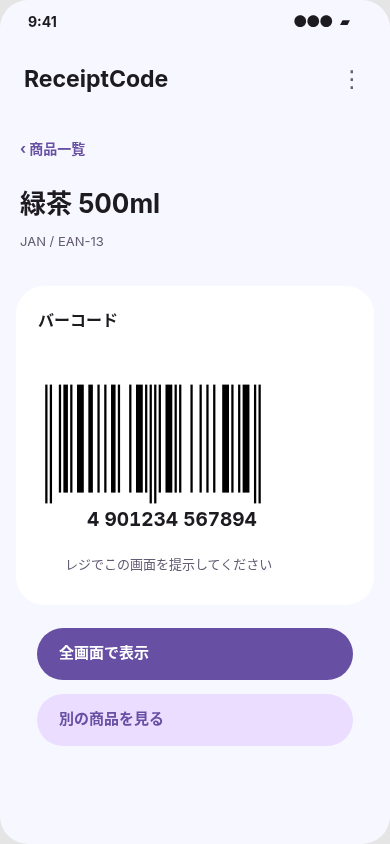
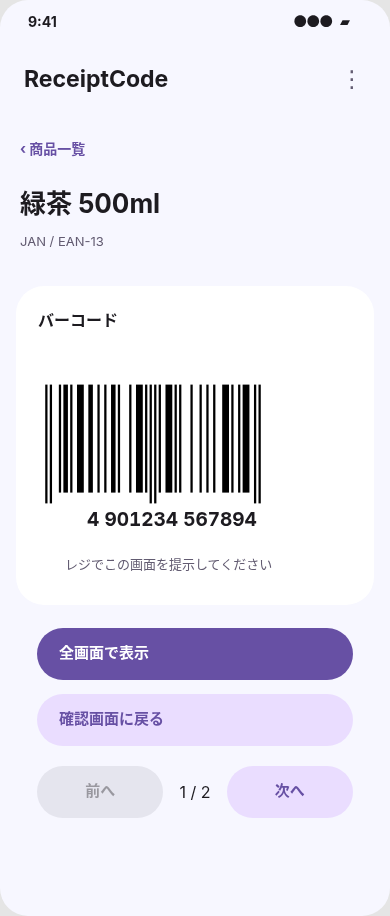
Restore review-to-sequential barcode scanning flow

diff --git a/tests/components/App.test.tsx b/tests/components/App.test.tsx
@@ -43,7 +43,6 @@ describe('App manual flow', () => {
     const checkbox = within(card).getByRole('checkbox', {
       name: '商品名とJANを確認しました',
     });
-    await user.click(screen.getByLabelText('その他の操作'));
     const bulkBarcodeButton = screen.getByRole('button', {
       name: /確認済みのバーコードを表示/,
     });
@@ -65,7 +64,7 @@ describe('App manual flow', () => {
     expect(screen.getByText('テスト商品')).toBeInTheDocument();
     expect(screen.getByText('1 / 1')).toBeInTheDocument();
 
-    await user.click(screen.getByRole('button', { name: '別の商品を見る' }));
+    await user.click(screen.getByRole('button', { name: '確認画面に戻る' }));
 
     const cardAfterReturn = screen.getByRole('listitem', {
       name: /テスト商品 4901234567894/,
@@ -82,7 +81,6 @@ describe('App manual flow', () => {
     });
     await user.clear(janAfterReturn);
     await user.type(janAfterReturn, '4512345678906');
-    await user.click(screen.getByLabelText('その他の操作'));
 
     expect(checkboxAfterReturn).not.toBeChecked();
     expect(
@@ -125,12 +123,12 @@ describe('App manual flow', () => {
       await user.type(screen.getByLabelText('商品名'), '未登録の商品');
       await user.click(screen.getByRole('button', { name: exit }));
       expect(screen.getAllByRole('listitem')).toHaveLength(1);
-      expect(screen.getByRole('button', { name: '保存される商品のバーコードを表示' })).toBeInTheDocument();
+      expect(screen.getByRole('button', { name: '確認済みのバーコードを表示（1件）' })).toBeEnabled();
       expect(screen.queryByText('未登録の商品')).not.toBeInTheDocument();
     }
   });
 
-  it('未確認カードは編集を開き、確認済みカードは選択した商品のバーコードを開く', async () => {
+  it('商品確認後に一括で進み、次へで順番に表示し、再編集で確認が解除される', async () => {
     const user = userEvent.setup();
     render(<App createOcrEngine={createUnusedFactory()} />);
     await user.click(screen.getByLabelText('その他の操作'));
@@ -141,15 +139,22 @@ describe('App manual flow', () => {
       await user.type(screen.getByLabelText('JANコード（8桁・13桁）'), jan);
       await user.click(screen.getByRole('button', { name: '商品を追加する' }));
       const card = screen.getByRole('listitem', { name: `${name} ${jan}` });
-      expect(within(card).queryByRole('checkbox')).not.toBeInTheDocument();
+      expect(within(card).getByRole('checkbox')).not.toBeChecked();
       await user.click(within(card).getByRole('button', { name: `${name}の内容を確認・編集` }));
       expect(screen.queryByRole('main', { name: 'JANバーコード表示' })).not.toBeInTheDocument();
       await user.click(within(card).getByRole('checkbox'));
     }
-    await user.click(screen.getByRole('button', { name: '商品Bのバーコードを表示' }));
+    await user.click(screen.getByRole('button', { name: '商品Bの商品詳細' }));
+    expect(screen.queryByRole('main', { name: 'JANバーコード表示' })).not.toBeInTheDocument();
+    await user.click(screen.getByRole('button', { name: '確認済みのバーコードを表示（2件）' }));
+    expect(await screen.findByRole('img', { name: 'EAN13 バーコード 4901234567894' })).toBeInTheDocument();
+    expect(screen.getByText('1 / 2')).toBeVisible();
+    expect(screen.getByRole('button', { name: '前へ' })).toBeDisabled();
+    await user.click(screen.getByRole('button', { name: '次へ' }));
     expect(await screen.findByRole('img', { name: 'EAN8 バーコード 12345670' })).toBeInTheDocument();
-    expect(screen.getByText('2 / 2')).toBeInTheDocument();
-    await user.click(screen.getByRole('button', { name: '別の商品を見る' }));
+    expect(screen.getByText('2 / 2')).toBeVisible();
+    expect(screen.getByRole('button', { name: '次へ' })).toBeDisabled();
+    await user.click(screen.getByRole('button', { name: '確認画面に戻る' }));
     await user.click(screen.getByRole('button', { name: '商品Bの内容を確認・編集' }));
     const card = screen.getByRole('listitem', { name: '商品B 12345670' });
     await user.type(within(card).getByRole('textbox', { name: '商品名' }), '改');

diff --git a/src/components/ItemList.tsx b/src/components/ItemList.tsx
@@ -1,5 +1,5 @@
 import { useMemo } from 'react';
-import { getDuplicateJanCounts } from '../features/receipt/itemOperations';
+import { getScannableItems, getDuplicateJanCounts } from '../features/receipt/itemOperations';
 import type { ReceiptItem } from '../types/receipt';
 import { ItemEditor } from './ItemEditor';
 
@@ -14,6 +14,7 @@ interface ItemListProps {
 
 export function ItemList({ items, onUpdateItem, onDeleteItem, onToggleConfirm, onShowBarcode, onManualAddOpenChange }: ItemListProps) {
   const duplicateCounts = useMemo(() => getDuplicateJanCounts(items), [items]);
+  const scannable = getScannableItems(items);
   return (
     <main className="screen review-screen" tabIndex={-1}>
       <header className="review-header">
@@ -30,7 +31,7 @@ export function ItemList({ items, onUpdateItem, onDeleteItem, onToggleConfirm, o
             <ItemEditor key={item.id} item={item} duplicateCount={duplicateCounts.get(item.jan) ?? 1}
               onUpdate={patch => onUpdateItem(item.id, patch)}
               onDelete={() => onDeleteItem(item.id)} onToggleConfirm={() => onToggleConfirm(item.id)}
-              onShowBarcode={() => onShowBarcode(item.id)} />
+              />
           ))}
         </ul>
       ) : (
@@ -39,6 +40,15 @@ export function ItemList({ items, onUpdateItem, onDeleteItem, onToggleConfirm, o
           <p>手動追加からJANを入力するか、⋮メニューから画像を読み取り直してください。</p>
         </section>
       )}
+      {items.length > 0 && <section className="review-next-step" aria-label="バーコード表示へ進む">
+        <p>{items.length}件中{scannable.length}件を確認済み</p>
+        <button type="button" className="button button-primary"
+          disabled={scannable.length === 0}
+          onClick={() => onShowBarcode(scannable[0].id)}>
+          確認済みのバーコードを表示（{scannable.length}件）
+        </button>
+        <p className="hint">確認済みの有効なJANを一覧の順に表示します。「次へ」で続けて読み取れます。</p>
+      </section>}
       <button type="button" className="button button-secondary add-item-button" onClick={() => onManualAddOpenChange(true)}>
         ＋ 商品を手動追加
       </button>

diff --git a/src/components/ItemEditor.tsx b/src/components/ItemEditor.tsx
@@ -8,7 +8,6 @@ interface ItemEditorProps {
   onUpdate: (patch: Partial<Pick<ReceiptItem, 'name' | 'jan'>>) => void;
   onDelete: () => void;
   onToggleConfirm: () => void;
-  onShowBarcode?: () => void;
 }
 
 function statusFor(item: ReceiptItem): ValidationState {
@@ -42,7 +41,6 @@ export function ItemEditor({
   onUpdate,
   onDelete,
   onToggleConfirm,
-  onShowBarcode,
 }: ItemEditorProps) {
   const [expanded, setExpanded] = useState(false);
   const liveValidation = validateJan(item.jan);
@@ -70,12 +68,10 @@ export function ItemEditor({
           aria-expanded={expanded} aria-controls={`editor-${item.id}`}
           onClick={() => setExpanded(!expanded)}>▤</button>
         <button type="button" className="item-summary"
-          aria-label={`${item.name || '商品名未認識'}${item.confirmed && confirmable && onShowBarcode ? 'のバーコードを表示' : 'の商品詳細'}`}
-          title={item.confirmed && confirmable ? 'バーコードを表示' : '内容を確認・編集'}
-          aria-expanded={item.confirmed && confirmable && onShowBarcode ? undefined : expanded}
-          aria-controls={item.confirmed && confirmable && onShowBarcode ? undefined : `editor-${item.id}`}
-          onClick={() => item.confirmed && confirmable && onShowBarcode ? onShowBarcode() : setExpanded(!expanded)}>
-
+          aria-label={`${item.name || '商品名未認識'}の商品詳細`}
+          title="内容を確認・編集"
+          aria-expanded={expanded} aria-controls={`editor-${item.id}`}
+          onClick={() => setExpanded(!expanded)}>
           <span className="item-summary-text">
             <strong>{item.name.trim() || '商品名未認識'}</strong>
             <span className="item-jan">{item.jan}</span>
@@ -169,6 +165,7 @@ export function ItemEditor({
           </ul>
         )}
 
+      </div>
         <label className="confirm-row">
           <input
             type="checkbox"
@@ -184,7 +181,6 @@ export function ItemEditor({
             JANを修正すると確認できます。
           </p>
         )}
-      </div>
     </li>
   );
 }

diff --git a/src/components/BarcodeViewer.tsx b/src/components/BarcodeViewer.tsx
@@ -101,11 +101,6 @@ export function BarcodeViewer({
   return (
     <div className={`app barcode-app${focusMode ? ' is-focus' : ''}`} ref={screenRef}>
       {!focusMode && <AppHeader>
-        <nav className="barcode-nav" aria-label="商品の切り替え">
-          <button type="button" disabled={!hasPrevious} onClick={onPrevious}>前へ</button>
-          <span className="barcode-counter" aria-live="polite">{index + 1} / {total}</span>
-          <button type="button" disabled={!hasNext} onClick={onNext}>次へ</button>
-        </nav>
         <p>{format && formatLabel(format)}</p>
         <p>画面の明るさを上げてください。</p>
         {wakeLockMessage && <p role="status">{wakeLockMessage}</p>}
@@ -141,13 +136,13 @@ export function BarcodeViewer({
         <button type="button" className="button button-primary" onClick={() => void toggleFocus()} aria-pressed={focusMode}>
           {focusMode ? '集中表示を終了' : '全画面で表示'}
         </button>
-        {!focusMode && <button type="button" className="button button-secondary" onClick={() => void close()}>別の商品を見る</button>}
+        {!focusMode && <button type="button" className="button button-secondary" onClick={() => void close()}>確認画面に戻る</button>}
       </div>
-      {focusMode && <nav className="barcode-nav" aria-label="商品の切り替え">
+      <nav className="barcode-nav" aria-label="商品の切り替え">
         <button type="button" className="button button-secondary" disabled={!hasPrevious} onClick={onPrevious}>前へ</button>
-        <span aria-live="polite">{index + 1} / {total}</span>
+        <span className="barcode-counter" aria-live="polite">{index + 1} / {total}</span>
         <button type="button" className="button button-secondary" disabled={!hasNext} onClick={onNext}>次へ</button>
-      </nav>}
+      </nav>
     </main>
     </div>
   );

diff --git a/tests/components/BarcodeViewer.test.tsx b/tests/components/BarcodeViewer.test.tsx
@@ -52,7 +52,6 @@ describe('BarcodeViewer', () => {
     ).toBeInTheDocument();
     expect(screen.getByText('牛乳 1L')).toBeInTheDocument();
     expect(screen.getByText('1 / 2')).toBeInTheDocument();
-    await userEvent.click(screen.getByLabelText('その他の操作'));
     expect(screen.getByRole('button', { name: '前へ' })).toBeDisabled();
     expect(screen.getByRole('button', { name: '次へ' })).toBeEnabled();
   });
@@ -61,11 +60,10 @@ describe('BarcodeViewer', () => {
     const user = userEvent.setup();
     const { onNext, onClose } = renderViewer();
 
-    await user.click(screen.getByLabelText('その他の操作'));
     await user.click(screen.getByRole('button', { name: '次へ' }));
     expect(onNext).toHaveBeenCalledTimes(1);
 
-    await user.click(screen.getByRole('button', { name: '別の商品を見る' }));
+    await user.click(screen.getByRole('button', { name: '確認画面に戻る' }));
     expect(onClose).toHaveBeenCalledTimes(1);
   });
 

diff --git a/src/styles.css b/src/styles.css
@@ -223,3 +223,11 @@ main:focus { outline: none; }
 @media (prefers-reduced-motion: reduce) {
   *, *::before, *::after { animation-duration: .01ms !important; animation-iteration-count: 1 !important; transition-duration: .01ms !important; scroll-behavior: auto !important; }
 }
+
+/* Review once, then scan the confirmed sequence without returning to the list. */
+.item-card > .confirm-row { margin: 0 16px; border-top: 1px solid var(--surface-container); }
+.item-card > .confirm-hint { margin: 0 16px 12px; }
+.review-next-step { display: grid; gap: 12px; margin-top: 24px; }
+.review-next-step > p:first-child { color: var(--primary); font-size: 14px; font-weight: 700; }
+.barcode-screen > .barcode-nav { display: grid; grid-template-columns: 1fr auto 1fr; gap: 16px; margin: 20px 21px 0; }
+.barcode-screen > .barcode-nav .button { padding-inline: 16px; }

diff --git a/src/App.tsx b/src/App.tsx
@@ -97,10 +97,6 @@ function App({ createOcrEngine }: AppProps) {
       <AppHeader onBack={isManual ? () => flow.setManualAddOpen(false) : undefined}>
         {flow.screen === 'upload' && <button type="button" onClick={flow.startManual}>JANを手入力して始める</button>}
         {flow.screen === 'review' && !isManual && <>
-          <button type="button" disabled={!flow.scannableItems.length}
-            onClick={() => flow.openBarcode(flow.scannableItems[0].id)}>
-            確認済みのバーコードを表示（{flow.scannableItems.length}件）
-          </button>
           {flow.prepared && <button type="button" onClick={() => void flow.startOcr()}>同じ画像でもう一度読み取る</button>}
           <button type="button" onClick={chooseAnother}>別の画像を選ぶ</button>
         </>}

diff --git a/tests/e2e/preview-build.spec.ts b/tests/e2e/preview-build.spec.ts
@@ -55,7 +55,7 @@ test(`本番ビルドを ${basePath} で配信し、手入力フローが動く`
   await card
     .getByRole('checkbox', { name: '商品名とJANを確認しました' })
     .check();
-  await card.getByRole('button', { name: /のバーコードを表示/ }).click();
+  await page.getByRole('button', { name: /確認済みのバーコードを表示/ }).click();
 
   const barcodeScreen = page.getByRole('main', {
     name: 'JANバーコード表示',

diff --git a/docs/Material3_Implementation.md b/docs/Material3_Implementation.md
@@ -21,8 +21,8 @@ Figma: https://www.figma.com/design/EkLDLqz36f4daWXms8Xton
 - Figmaの390×844の構成を基準に、固定座標をFlex/Gridと最小サイズへ変換。320px、横向き、デスクトップ、文字折り返しに対応する。
 - Inter 400/700のローカルWOFF2（SIL Open Font License）を同梱。日本語はNoto Sans CJK JP等へフォールバックする。外部フォントサービスへの実行時通信はない。
 - Figmaのステータスバー（9:41・記号）も装飾として再現し、アクセシビリティツリーから除外する。端末の実際の時計や電池状態を表すものではない。
-- 一括表示・手入力開始・再OCR・前後移動・Wake Lock案内は「⋮」メニューへ集約。カード横の編集文字・常設の一括ボタン・補足文・フッター・強調背景を外し、4画面の初期表示をFigmaに揃える。
-- カードを押すと未確認商品は編集を展開、確認済み・有効な商品はその商品のバーコードへ遷移。確認済みでも左の「▤」アイコンから再編集できる。
+- 確認画面で各商品のチェック欄を選び、「確認済みのバーコードを表示」から次のフローへ進む。一覧順に「バーコード→次へ→バーコード」と連続表示する。末尾では次へ、先頭では前へが無効になる。
+- 商品カード・左アイコンは確認・編集専用。一括表示と前後移動を常時表示し、個別商品のタップからバーコードへ直接遷移しない。未確認・無効JANの除外、再編集での確認解除を維持する。
 - Figmaで全商品が同じモックに遷移する部分を、実際の商品に接続。未確認/無効JANのバーコード表示禁止を維持する。
 - Figmaのチョコレートの `4909876543218` はチェックデジット不正（期待値4）。画面のデモ値を実データとして流用せず、既存の検証で拒否する。見た目の比較用データには `4909876543214` を使用した。
 - Figmaの「全画面で表示」は既存の集中表示に接続し、対応ブラウザではFullscreen APIも利用する。非対応でも集中表示を使える。
@@ -33,10 +33,10 @@ Figma: https://www.figma.com/design/EkLDLqz36f4daWXms8Xton
 ## 検証
 
 - `npm run lint` / `npm run typecheck` / `npm test`（68件）/ `npm run build` が成功。
-- ChromiumでE2E 7件（実OCRの代わりに既存の固定OCRエンジン）が成功。本番ビルドの `/receipt2jan/` 配信も確認。
+- ChromiumでE2E 8件（実OCRの代わりに既存の固定OCRエンジン）が成功。本番ビルドの `/receipt2jan/` 配信も確認。
 - 追加画面でのキャンセル/戻るによるデータ保持、未確認カードの編集、確認済みカードから選択商品のバーコードへの遷移、再編集での確認解除をコンポーネントテストに追加。
 - 390×844で4画面を撮影し、Figmaのスクリーンショットと比較。主要カードの配色・角丸・余白・操作順を確認。320×568、844×390、1280×900でも横はみ出しなし。
-- 主要矩形（説明カード、画像選択、入力欄、成功バナー、商品カード、追加ボタン、バーコードカード等）の位置・寸法をFigma測定値の±1px以内でE2E検証。Figmaにない常時表示の操作がないことも確認。
+- 主要矩形（説明カード、画像選択、入力欄、成功バナー、商品カード、追加ボタン、バーコードカード等）の位置・寸法をFigma測定値の±1px以内でE2E検証。確認から連続表示へのフローは利用要望に合わせてFigmaから拡張。
 - バーコードの線パターンと商品情報・検証状態は実データに従う。番号を13桁なら1/6/6桁、8桁なら4/4桁に分けて表示する。SVGは既存の生成・検証結果を使用し、表示枠に合わせて横・縦を独立に拡縮する（左右のQuiet Zoneを含む）。実機とハンディスキャナーでの確認は未実施。
 
 ## 画面の比較資料
